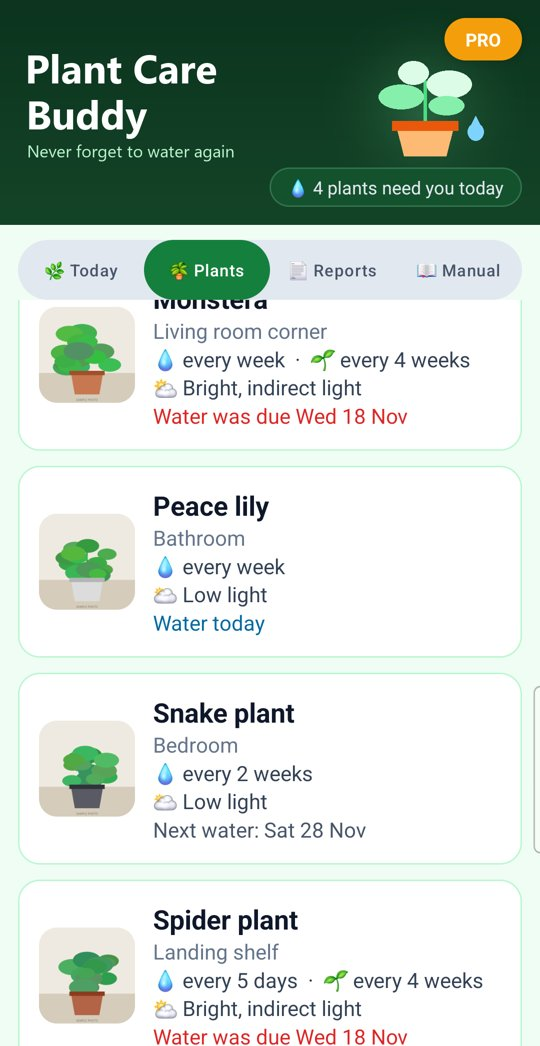
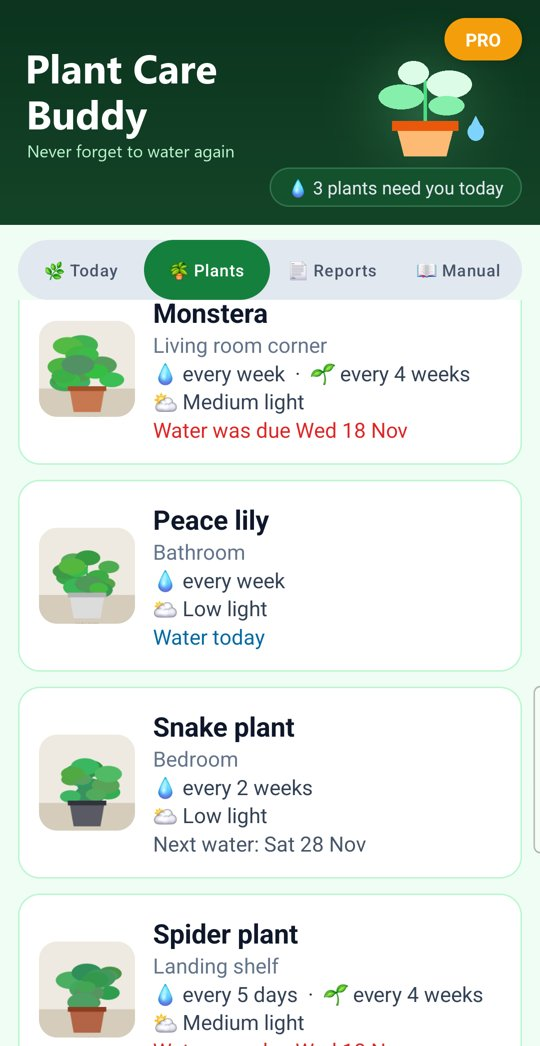
Add files via upload

diff --git a/plant-care-buddy/index.html b/plant-care-buddy/index.html
@@ -53,11 +53,18 @@
         <p>Feeding reminders count from the day you switch feeding on, so a new plant isn't due a feed straight away.</p>
 
         <h3>🌿 Today</h3>
-        <p>The 🌿 Today tab shows the plants that need water or feed today (or were missed), and what's coming up in the next few days.</p>
+        <p>The 🌿 Today tab shows the plants that need water or feed today (or were missed), and under Coming up, the plants due next.</p>
         <p>Tap 💧 Watered or 🌱 Fed when you've done it: the next date moves on from today. Tap 💧 Water all when you've watered every plant on the list.</p>
 
         <h3>☀ Light</h3>
-        <p>Each plant has a light setting, with a rough guide in lux: low light (about 500–2,500 lux, a few metres from a window), bright indirect light (about 2,500–10,000 lux, near a window but out of direct sun) and bright light (about 10,000 lux or more). A light meter app can measure a spot if you're not sure.</p>
+        <p>Each plant has a light setting. For indoor plants, these are the usual ranges in lux:</p>
+        <ul>
+            <li>🌥 Low light (about 500–2,500 lux): enough to keep hardy, shade-tolerant plants going (for example ZZ plant, snake plant, cast iron plant).</li>
+            <li>⛅ Medium light (about 2,500–10,000 lux): steady growth for most tropical houseplants (for example pothos, monstera, peace lily, philodendron).</li>
+            <li>☀ High light (about 10,000–25,000 lux): bright, indirect light for sun-loving plants (for example fiddle-leaf fig, rubber plant, jade, herbs).</li>
+            <li>🌞 Direct sun (about 25,000–100,000 lux): full sun outdoors or in an unshaded south-facing window, for cacti, succulents and fruiting plants.</li>
+        </ul>
+        <p>A light meter app can measure a spot if you're not sure.</p>
 
         <h3>🔔 Reminders</h3>
         <p>At about 09:00, on days any plant needs water or feed, the app shows one note with their names. Android may ask you to allow notifications. If the phone was off, you get it the next morning. Switch reminders off or on in 📄 Reports.</p>
@@ -83,7 +90,7 @@
         <p>Google Play handles the Pro purchase.</p>
 
         <h3>About</h3>
-        <p>Plant Care Buddy v1.0 (Build 1)</p>
+        <p>Plant Care Buddy v1.1 (Build 2)</p>
         <p>Publisher: AppStack Studio</p>
 
         <h3>⚡ WHY PLANT CARE BUDDY</h3>

diff --git a/plant-care-buddy/support.html b/plant-care-buddy/support.html
@@ -44,7 +44,7 @@
             <p>On 📄 Reports, add their name or your dates away, then tap 📄 Care sheet and send it by email or message, or print it. It shows where each plant is, how often to water and feed, the next dates and a photo.</p>
 
             <h3>5. What do the light settings mean?</h3>
-            <p>Low light is about 500–2,500 lux, bright indirect light about 2,500–10,000 lux and bright light about 10,000 lux or more. They're a rough guide; a light meter app can measure a spot.</p>
+            <p>For indoor plants: low light is about 500–2,500 lux, medium light about 2,500–10,000 lux, high light about 10,000–25,000 lux and direct sun about 25,000–100,000 lux. They're a rough guide; a light meter app can measure a spot.</p>
 
             <h3>6. Can it tell me what plant I have?</h3>
             <p>No. The app doesn't identify plants or look anything up; you name each plant and set how often it needs water.</p>
